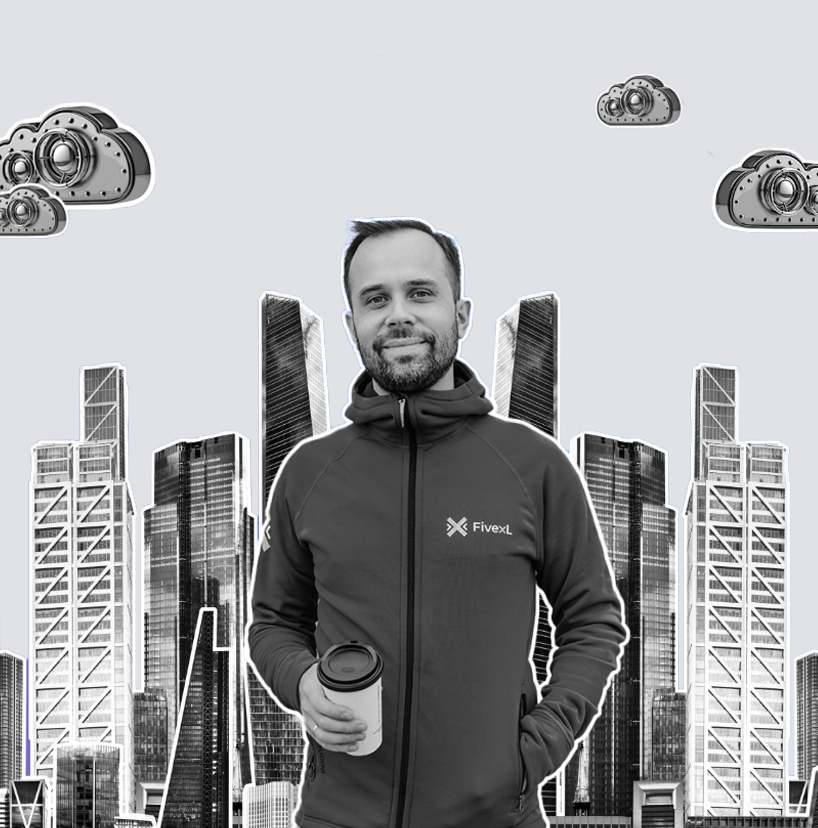
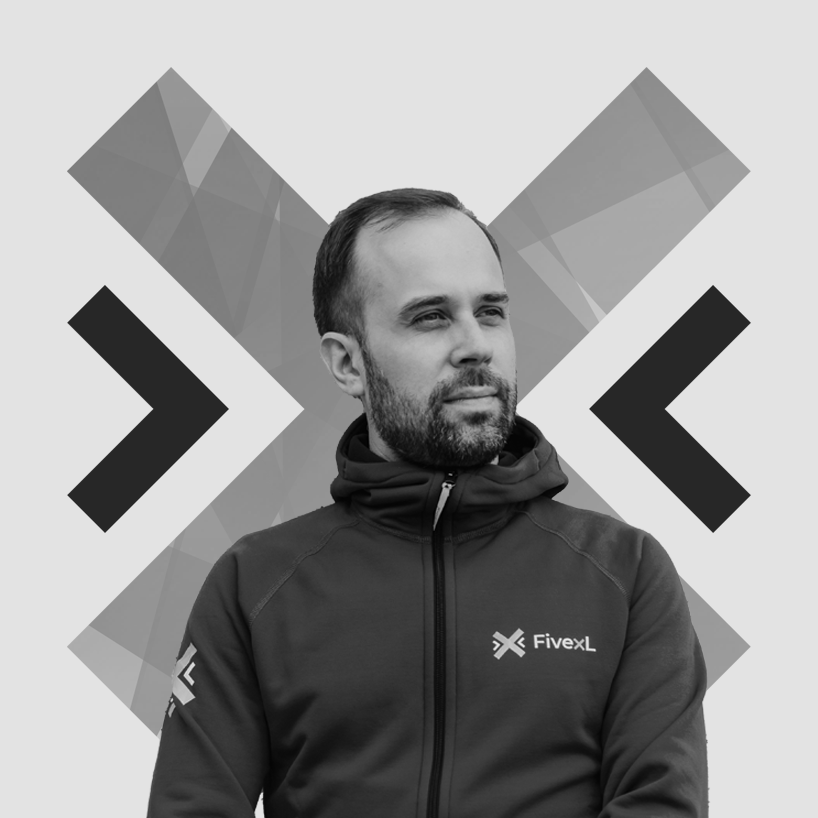
added pictures that appeared on consultants page

diff --git a/content/case-studies/kosli-case-study/index.md b/content/case-studies/kosli-case-study/index.md
@@ -3,7 +3,7 @@ title: 'Kosli Case Study'
 author_id: 'Artem Zhelezov'
  
 summary: 'FivexL helped a Norwegian startup migrate from Google Cloud to AWS ECS, enabling them to scale their business and pass audits.'
-date: 2024-05-21 
+date: 2024-05-27 
 author:  Artem Zhelezov
 panel_image: artem_gradient.png
 authors_heading: 'Senior consultant leading the project'
@@ -99,7 +99,7 @@ To bolster security, minimize human error in credential management, and ensure s
 {{< case_study/benefits
     cta_text="Start Your Success Story"
     cta_url="https://sales.fivexl.io/schedule-a-call"
-    image="kosli_benefits.png"
+    image="kosli_benefits_small.png"
     >}}
 {{< pink_heading text="Benefits" >}}
 The new high-performing and secure infrastructure, defined as code, enabled Kosli to scale its business effectively. FivexL built an infrastructure that met their audience's needs and ensured compliance, enhancing security. FivexL developed a disaster recovery plan and helped Kosli pass audits.<br/>  

diff --git a/content/case-studies/new-stream-case-study/index.md b/content/case-studies/new-stream-case-study/index.md
@@ -6,7 +6,7 @@ author_id:
 summary: 'FivexL built a scalable and secure infrastructure defined in code for a Mobile Computer Vision & AI solutions software company.'
 date: 2022-08-28 
 author:  Artem Zhelezov Maria Zubchenko 
-panel_image: Artem_gradient.png
+panel_image: Artem_pink.png
 authors_heading: 'Two lead consultants for the project'
 alt_image: artem_quad.png
 case_study: true

diff --git a/content/case-studies/kuvio-retainer-case-study/index.md b/content/case-studies/kuvio-retainer-case-study/index.md
@@ -8,7 +8,7 @@ date: 2022-01-10
 author:  Andrey Devyatkin Alexey Eremin
 panel_image: andrey_main.png
 authors_heading: 'Two lead consultants for the project'
-alt_image: andrey_quad.png
+alt_image: andrey_quad_bnw.png
 case_study: true
 layout: 'case_study'
 tags: ['case study', 'aws']
